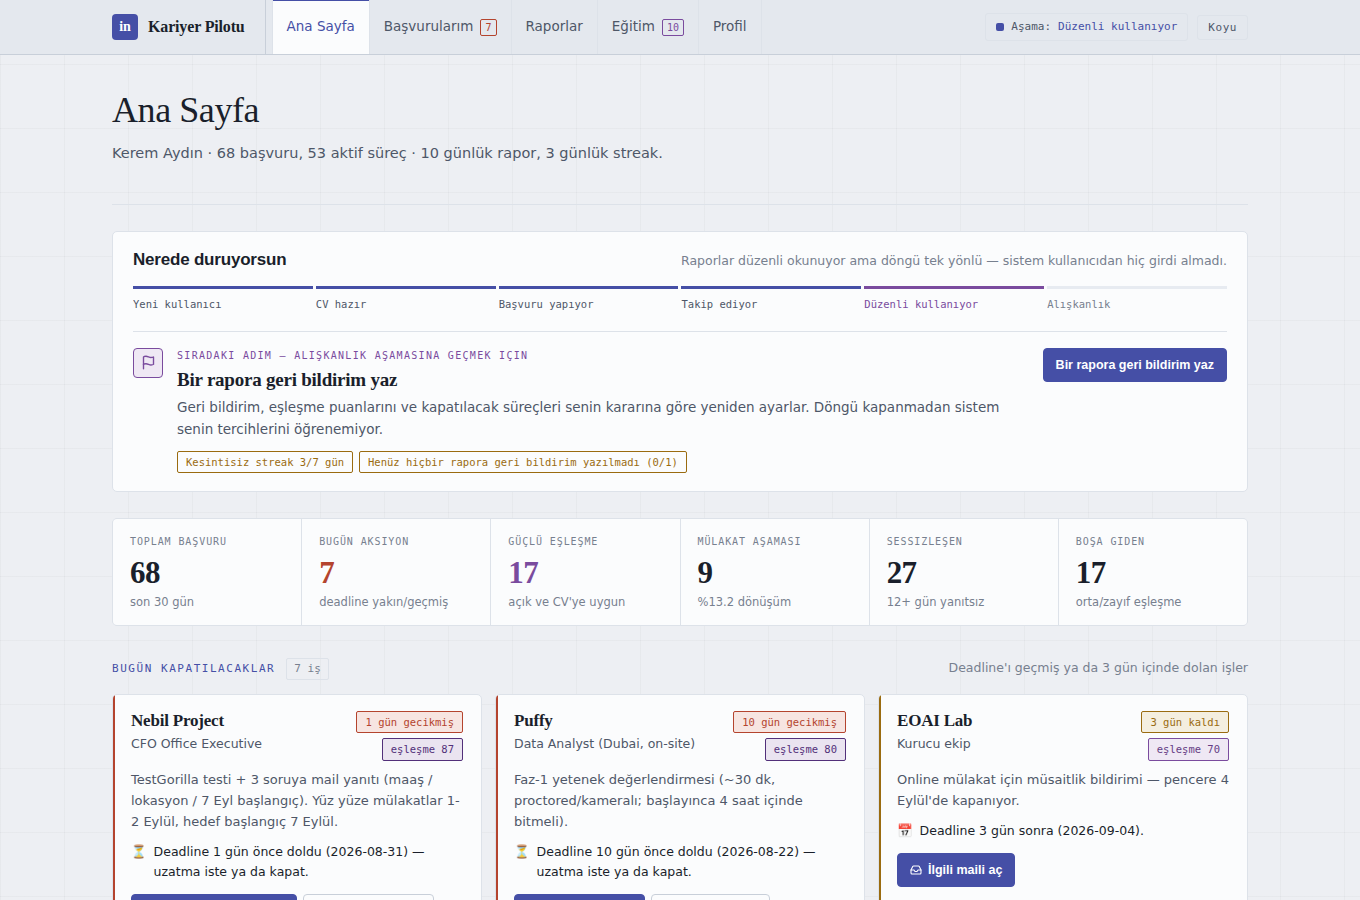
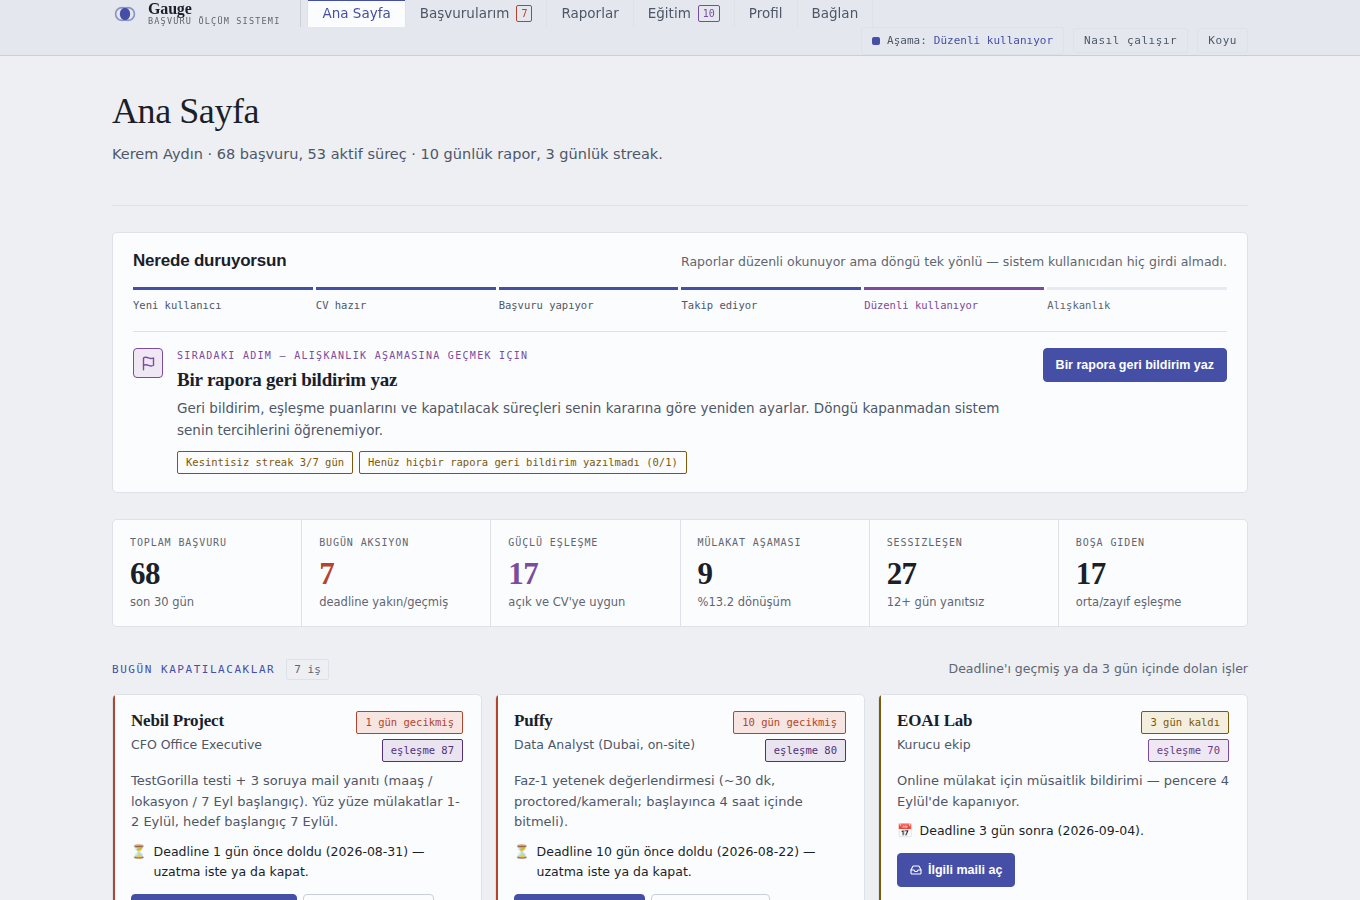
Ürünü Gauge olarak adlandır ve README'ye tanıtım turunu ekle
- Ürün adı Kariyer Pilotu yerine Gauge; "ölçmek" fiili uygulamanın işini
  doğrudan anlatıyor, hem Türkçe hem yabancı işveren için okunur
- README'ye üç adımlı tanıtım bölümü eklendi; GitHub'dan gelen kişi
  uygulamanın ne yaptığını sayfayı terk etmeden görüyor
- CV yüklemenin gerçekten çalıştığı, Gmail bağlantısının ise simülasyon
  olduğu README'de ayrı ayrı belirtildi
- Ekran görüntüleri yeni markayla yenilendi, tur ve Bağlan sayfası eklendi
- pdf.js betiği defer edildi; engelleyici olduğu için ilk boyamayı
  geciktiriyordu

Claude-Session: https://claude.ai/code/session_01NNhRV9zBAWBaWB4JdnpSkY

diff --git a/reports/pano.html b/reports/pano.html
@@ -1,7 +1,7 @@
-<title>Kariyer Pilotu</title>
+<title>Gauge</title>
 <link rel="preconnect" href="https://fonts.googleapis.com">
 <link rel="preconnect" href="https://fonts.gstatic.com" crossorigin>
-<script src="https://cdnjs.cloudflare.com/ajax/libs/pdf.js/3.11.174/pdf.min.js"></script>
+<script defer src="https://cdnjs.cloudflare.com/ajax/libs/pdf.js/3.11.174/pdf.min.js"></script>
 <link rel="stylesheet" href="https://fonts.googleapis.com/css2?family=Newsreader:opsz,wght@6..72,400;6..72,500;6..72,600&family=Archivo:wght@400;500;600;700&family=IBM+Plex+Mono:wght@400;500;600&display=swap">
 <style>
   /* ============================================================
@@ -82,7 +82,9 @@
         padding-right:20px;margin-right:6px;border-right:1px solid var(--line-2)}
   .logo .sq{width:26px;height:26px;flex:none;display:grid;place-items:center;color:var(--brand)}
   .logo .sq svg{width:24px;height:24px;display:block}
-  .logo .nm{font-family:Newsreader,serif;font-weight:600;font-size:16px;letter-spacing:-.01em}
+  .logo .nm{font-family:Newsreader,serif;font-weight:600;font-size:16px;letter-spacing:-.01em;line-height:1.15}
+  .logo .nm small{display:block;font-family:"IBM Plex Mono",monospace;font-size:8.5px;
+    letter-spacing:.14em;text-transform:uppercase;color:var(--ink-3);font-weight:400;margin-top:-1px}
   nav.tabs{display:flex;flex-wrap:wrap}
   nav.tabs a{position:relative;text-decoration:none;color:var(--ink-2);font-size:13.5px;font-weight:500;
              padding:0 14px;display:flex;align-items:center;gap:7px;border-right:1px solid var(--line);
@@ -473,7 +475,7 @@
 
 <header class="topbar">
   <div class="topbar-in">
-    <a class="logo" href="#/ana"><span class="sq"><svg viewBox="0 0 24 24" aria-hidden="true" focusable="false"><circle cx="9" cy="12" r="6.4" fill="none" stroke="currentColor" stroke-width="1.7" opacity=".55"/><circle cx="15" cy="12" r="6.4" fill="none" stroke="currentColor" stroke-width="1.7" opacity=".55"/><path d="M12 5.72A6.4 6.4 0 0 0 12 18.28A6.4 6.4 0 0 0 12 5.72Z" fill="currentColor"/></svg></span><span class="nm">Kariyer Pilotu</span></a>
+    <a class="logo" href="#/ana"><span class="sq"><svg viewBox="0 0 24 24" aria-hidden="true" focusable="false"><circle cx="9" cy="12" r="6.4" fill="none" stroke="currentColor" stroke-width="1.7" opacity=".55"/><circle cx="15" cy="12" r="6.4" fill="none" stroke="currentColor" stroke-width="1.7" opacity=".55"/><path d="M12 5.72A6.4 6.4 0 0 0 12 18.28A6.4 6.4 0 0 0 12 5.72Z" fill="currentColor"/></svg></span><span class="nm">Gauge<small>başvuru ölçüm sistemi</small></span></a>
     <nav class="tabs" id="tabs" aria-label="Ana gezinme">
       <a href="#/ana" data-p="ana">Ana Sayfa</a>
       <a href="#/basvurular" data-p="basvurular">Başvurularım <span class="badge" id="nbApps"></span></a>

diff --git a/site/app.html b/site/app.html
@@ -1,7 +1,7 @@
-<title>Kariyer Pilotu</title>
+<title>Gauge</title>
 <link rel="preconnect" href="https://fonts.googleapis.com">
 <link rel="preconnect" href="https://fonts.gstatic.com" crossorigin>
-<script src="https://cdnjs.cloudflare.com/ajax/libs/pdf.js/3.11.174/pdf.min.js"></script>
+<script defer src="https://cdnjs.cloudflare.com/ajax/libs/pdf.js/3.11.174/pdf.min.js"></script>
 <link rel="stylesheet" href="https://fonts.googleapis.com/css2?family=Newsreader:opsz,wght@6..72,400;6..72,500;6..72,600&family=Archivo:wght@400;500;600;700&family=IBM+Plex+Mono:wght@400;500;600&display=swap">
 <style>
   /* ============================================================
@@ -82,7 +82,9 @@
         padding-right:20px;margin-right:6px;border-right:1px solid var(--line-2)}
   .logo .sq{width:26px;height:26px;flex:none;display:grid;place-items:center;color:var(--brand)}
   .logo .sq svg{width:24px;height:24px;display:block}
-  .logo .nm{font-family:Newsreader,serif;font-weight:600;font-size:16px;letter-spacing:-.01em}
+  .logo .nm{font-family:Newsreader,serif;font-weight:600;font-size:16px;letter-spacing:-.01em;line-height:1.15}
+  .logo .nm small{display:block;font-family:"IBM Plex Mono",monospace;font-size:8.5px;
+    letter-spacing:.14em;text-transform:uppercase;color:var(--ink-3);font-weight:400;margin-top:-1px}
   nav.tabs{display:flex;flex-wrap:wrap}
   nav.tabs a{position:relative;text-decoration:none;color:var(--ink-2);font-size:13.5px;font-weight:500;
              padding:0 14px;display:flex;align-items:center;gap:7px;border-right:1px solid var(--line);
@@ -473,7 +475,7 @@
 
 <header class="topbar">
   <div class="topbar-in">
-    <a class="logo" href="#/ana"><span class="sq"><svg viewBox="0 0 24 24" aria-hidden="true" focusable="false"><circle cx="9" cy="12" r="6.4" fill="none" stroke="currentColor" stroke-width="1.7" opacity=".55"/><circle cx="15" cy="12" r="6.4" fill="none" stroke="currentColor" stroke-width="1.7" opacity=".55"/><path d="M12 5.72A6.4 6.4 0 0 0 12 18.28A6.4 6.4 0 0 0 12 5.72Z" fill="currentColor"/></svg></span><span class="nm">Kariyer Pilotu</span></a>
+    <a class="logo" href="#/ana"><span class="sq"><svg viewBox="0 0 24 24" aria-hidden="true" focusable="false"><circle cx="9" cy="12" r="6.4" fill="none" stroke="currentColor" stroke-width="1.7" opacity=".55"/><circle cx="15" cy="12" r="6.4" fill="none" stroke="currentColor" stroke-width="1.7" opacity=".55"/><path d="M12 5.72A6.4 6.4 0 0 0 12 18.28A6.4 6.4 0 0 0 12 5.72Z" fill="currentColor"/></svg></span><span class="nm">Gauge<small>başvuru ölçüm sistemi</small></span></a>
     <nav class="tabs" id="tabs" aria-label="Ana gezinme">
       <a href="#/ana" data-p="ana">Ana Sayfa</a>
       <a href="#/basvurular" data-p="basvurular">Başvurularım <span class="badge" id="nbApps"></span></a>

diff --git a/src/dashboard.template.html b/src/dashboard.template.html
@@ -1,7 +1,7 @@
-<title>Kariyer Pilotu</title>
+<title>Gauge</title>
 <link rel="preconnect" href="https://fonts.googleapis.com">
 <link rel="preconnect" href="https://fonts.gstatic.com" crossorigin>
-<script src="https://cdnjs.cloudflare.com/ajax/libs/pdf.js/3.11.174/pdf.min.js"></script>
+<script defer src="https://cdnjs.cloudflare.com/ajax/libs/pdf.js/3.11.174/pdf.min.js"></script>
 <link rel="stylesheet" href="https://fonts.googleapis.com/css2?family=Newsreader:opsz,wght@6..72,400;6..72,500;6..72,600&family=Archivo:wght@400;500;600;700&family=IBM+Plex+Mono:wght@400;500;600&display=swap">
 <style>
   /* ============================================================
@@ -82,7 +82,9 @@
         padding-right:20px;margin-right:6px;border-right:1px solid var(--line-2)}
   .logo .sq{width:26px;height:26px;flex:none;display:grid;place-items:center;color:var(--brand)}
   .logo .sq svg{width:24px;height:24px;display:block}
-  .logo .nm{font-family:Newsreader,serif;font-weight:600;font-size:16px;letter-spacing:-.01em}
+  .logo .nm{font-family:Newsreader,serif;font-weight:600;font-size:16px;letter-spacing:-.01em;line-height:1.15}
+  .logo .nm small{display:block;font-family:"IBM Plex Mono",monospace;font-size:8.5px;
+    letter-spacing:.14em;text-transform:uppercase;color:var(--ink-3);font-weight:400;margin-top:-1px}
   nav.tabs{display:flex;flex-wrap:wrap}
   nav.tabs a{position:relative;text-decoration:none;color:var(--ink-2);font-size:13.5px;font-weight:500;
              padding:0 14px;display:flex;align-items:center;gap:7px;border-right:1px solid var(--line);
@@ -473,7 +475,7 @@
 
 <header class="topbar">
   <div class="topbar-in">
-    <a class="logo" href="#/ana"><span class="sq"><svg viewBox="0 0 24 24" aria-hidden="true" focusable="false"><circle cx="9" cy="12" r="6.4" fill="none" stroke="currentColor" stroke-width="1.7" opacity=".55"/><circle cx="15" cy="12" r="6.4" fill="none" stroke="currentColor" stroke-width="1.7" opacity=".55"/><path d="M12 5.72A6.4 6.4 0 0 0 12 18.28A6.4 6.4 0 0 0 12 5.72Z" fill="currentColor"/></svg></span><span class="nm">Kariyer Pilotu</span></a>
+    <a class="logo" href="#/ana"><span class="sq"><svg viewBox="0 0 24 24" aria-hidden="true" focusable="false"><circle cx="9" cy="12" r="6.4" fill="none" stroke="currentColor" stroke-width="1.7" opacity=".55"/><circle cx="15" cy="12" r="6.4" fill="none" stroke="currentColor" stroke-width="1.7" opacity=".55"/><path d="M12 5.72A6.4 6.4 0 0 0 12 18.28A6.4 6.4 0 0 0 12 5.72Z" fill="currentColor"/></svg></span><span class="nm">Gauge<small>başvuru ölçüm sistemi</small></span></a>
     <nav class="tabs" id="tabs" aria-label="Ana gezinme">
       <a href="#/ana" data-p="ana">Ana Sayfa</a>
       <a href="#/basvurular" data-p="basvurular">Başvurularım <span class="badge" id="nbApps"></span></a>

diff --git a/site/index.html b/site/index.html
@@ -3,7 +3,7 @@
 <head>
 <meta charset="utf-8">
 <meta name="viewport" content="width=device-width, initial-scale=1">
-<title>Kariyer Pilotu — İş başvurusu takip ve CV eşleştirme sistemi</title>
+<title>Gauge — İş başvurusu takip ve CV eşleştirme sistemi</title>
 <meta name="description" content="Gmail'i tarayıp iş başvurularını tek yerde toplayan, her ilanı CV'ye göre puanlayan ve eksik yetkinlikleri çıkaran otomasyon. 68 gerçek başvuru üzerinde kuruldu.">
 <link rel="preconnect" href="https://fonts.googleapis.com">
 <link rel="preconnect" href="https://fonts.gstatic.com" crossorigin>
@@ -212,7 +212,7 @@
   <div class="wrap">
     <a class="brand" href="#top">
       <span class="mk"><svg viewBox="0 0 24 24" aria-hidden="true" focusable="false"><circle cx="9" cy="12" r="6.4" fill="none" stroke="currentColor" stroke-width="1.7" opacity=".55"/><circle cx="15" cy="12" r="6.4" fill="none" stroke="currentColor" stroke-width="1.7" opacity=".55"/><path d="M12 5.72A6.4 6.4 0 0 0 12 18.28A6.4 6.4 0 0 0 12 5.72Z" fill="currentColor"/></svg></span>
-      <span class="tx">Kariyer Pilotu<small>başvuru takip sistemi</small></span>
+      <span class="tx">Gauge<small>başvuru ölçüm sistemi</small></span>
     </a>
     <nav class="top">
       <a href="#problem">Problem</a>
@@ -256,7 +256,7 @@
       <div><span class="n mono">5</span><span class="l">sayfa</span></div>
     </div>
     <figure class="heroshot" style="margin:44px 0 0">
-      <a class="shot" href="app.html"><img src="img/01-ana.png" alt="Kariyer Pilotu ana sayfası: yaşam döngüsü hattı, ölçü şeridi ve bugün kapatılacak işler" loading="lazy"></a>
+      <a class="shot" href="app.html"><img src="img/01-ana.png" alt="Gauge ana sayfası: yaşam döngüsü hattı, ölçü şeridi ve bugün kapatılacak işler" loading="lazy"></a>
       <figcaption class="shotcap">Ana sayfa — kullanıcının hangi aşamada olduğu, bugün ne yapması gerektiği ve odaklanacağı süreçler</figcaption>
     </figure>
   </div>
@@ -490,7 +490,7 @@
 
 <footer>
   <div class="wrap">
-    <div>Kariyer Pilotu — iş başvurusu takip ve CV eşleştirme sistemi<br>
+    <div>Gauge — iş başvurusu takip ve CV eşleştirme sistemi<br>
       Kerem Aydın · <a href="https://linkedin.com/in/kerem-aydin-demo" target="_blank" rel="noopener">LinkedIn</a> ·
       <a href="https://github.com/atalay9807/whatapptouse-analysis" target="_blank" rel="noopener">GitHub</a></div>
     <div style="text-align:right">Veri penceresi: 1 Ağustos – 1 Eylül 2026<br>Kurs kayıtları simülasyondur</div>

diff --git a/README.md b/README.md
@@ -1,6 +1,6 @@
 <div align="center">
 
-# Kariyer Pilotu
+# Gauge
 
 **Gmail'i tarayıp iş başvurularını tek yerde toplayan, her ilanı CV'ye göre puanlayan
 ve eksik yetkinlikleri çıkaran otomasyon.**
@@ -12,6 +12,48 @@ ve eksik yetkinlikleri çıkaran otomasyon.**
 </div>
 
 ![Ana sayfa](docs/img/01-ana.png)
+
+---
+
+## Nasıl çalışır — üç adım
+
+Uygulama ilk açıldığında bu üç adımı anlatır; üstteki **"Nasıl çalışır"** düğmesiyle her an tekrar açılabilir.
+
+<table>
+<tr><td width="33%" valign="top">
+
+![Adım 1](docs/img/tour-1.png)
+
+**1 · CV'ni ekle, Gmail'ini bağla**
+
+CV'den kıdem bandın, araç seviyelerin ve bilinen açıkların çıkarılır. Sistemin her ilanı neye göre puanlayacağı bu profille belirlenir.
+
+</td><td width="33%" valign="top">
+
+![Adım 2](docs/img/tour-2.png)
+
+**2 · Gelen kutusu okunur, süreçler segmentlenir**
+
+İş e-postaları taranıp teklif · davet · red · aksiyon diye sınıflandırılır. Her başvuru CV'ye göre 0–100 puanlanır, deadline ve sessizlik için hatırlatma üretilir.
+
+</td><td width="33%" valign="top">
+
+![Adım 3](docs/img/tour-3.png)
+
+**3 · Ortak eksik bulunur, eğitim önerilir**
+
+Olumsuz sonuçlarda hangi yetkinliğin tekrar eksik kaldığı çıkarılır, öncelik sırasına dizilir ve indirimli kurs önerisine bağlanır.
+
+</td></tr>
+</table>
+
+### CV yükleme gerçekten çalışıyor
+
+`Bağlan` sayfasında PDF, TXT veya Markdown yükleyebilirsin; metin okunup yapay zekayla profil çıkarılır — kıdem, beceri seviyeleri ve tespit edilen açıklar. Sonuç yalnızca ekranda gösterilir, kaydedilmez.
+
+![Bağlan sayfası](docs/img/07-baglan.png)
+
+**Gmail bağlantısı bu demoda simülasyondur.** Yayınlanan bir sayfa tarayıcıdan doğrudan Gmail'e bağlanamaz; sunucu tarafında OAuth ve Google onaylı bir uygulama gerekir. Depodaki otomasyon bu işi Gmail MCP sunucusu üzerinden yapıyor — arayüz bu ayrımı açıkça belirtiyor.
 
 ---
 
